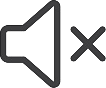
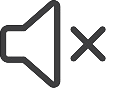
CHECKPOINT

diff --git a/js/main.js b/js/main.js
@@ -44,14 +44,16 @@ function mute() {
             m.volume = 0.8
         }
 
-        document.getElementById("bMute").setAttribute("src", "media/img/unmute.png")
+        document.getElementById("iMute").setAttribute("src", "media/img/unmute.png")
     } else {
         for (let m of bgMusic) {
             m.volume = 0
         }
 
-        document.getElementById("bMute").setAttribute("src", "media/img/mute.png")
+        document.getElementById("iMute").setAttribute("src", "media/img/mute.png")
     }
+
+    isMuted = !isMuted
 }
 
 function wereArgsPassed() {

diff --git a/sudoku.html b/sudoku.html
@@ -332,7 +332,9 @@
 			
 		</script>
 			<h1>SUDOKU</h1>
-			<input id="bMute" type="image" src="media/img/unmute.png" onclick="mute()"/> 
+			<button id="bMute">
+				<img id="iMute" src="media/img/unmute.png" onclick="mute()"/>
+			</button>
 	        <div id="clock"></div>
 	        <script type="text/javascript" src="js/timer.js"></script>
 	        <p><b>Règles :</b><br><!-- à abréger -->

diff --git a/css/sudoku.css b/css/sudoku.css
@@ -150,7 +150,7 @@ p {
 }
 
 #bMute {
-	width: 50px;
+	width: fit-content;
 	border: none;
 	background: none;
 }
@@ -159,6 +159,10 @@ p {
 	border: none;
 	background: none;
 	cursor: pointer;
+}
+
+#iMute {
+	width: 50px;
 }
 
 #footer {
